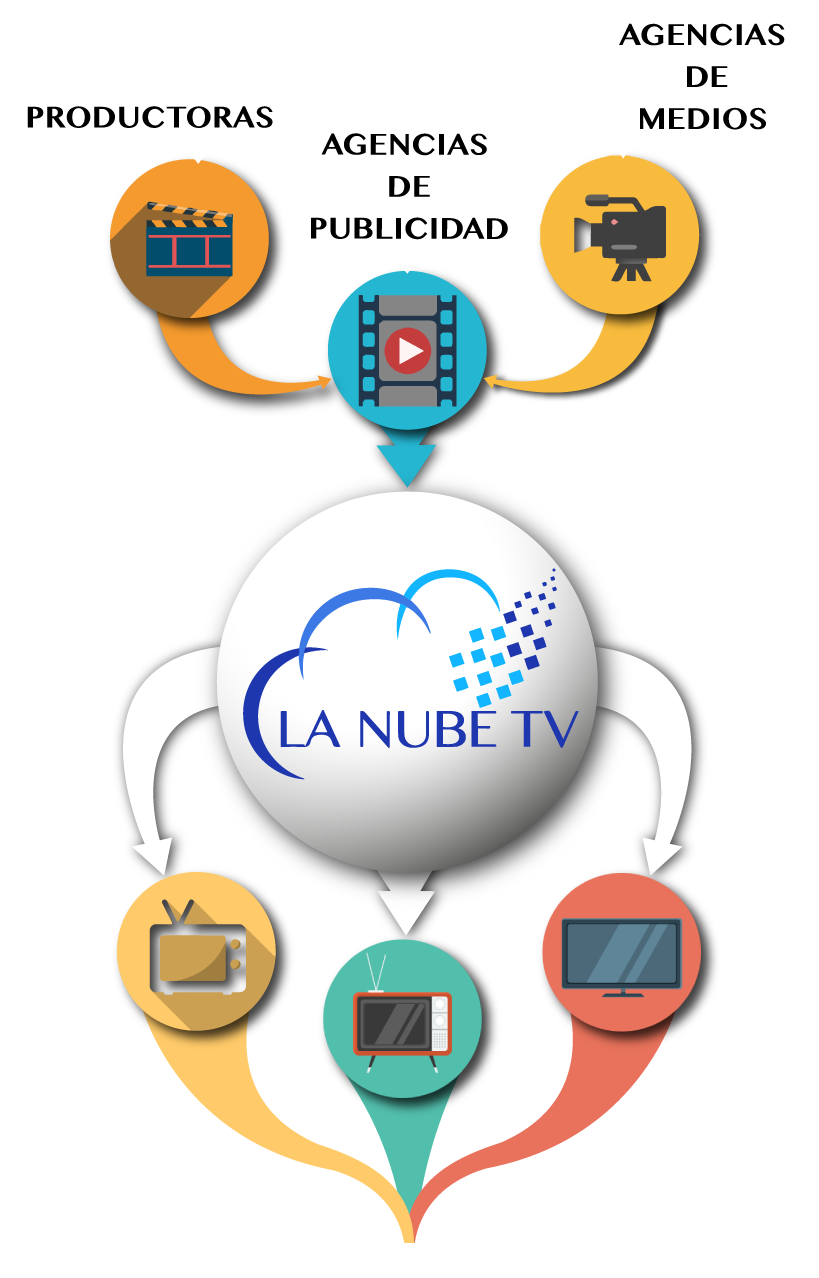
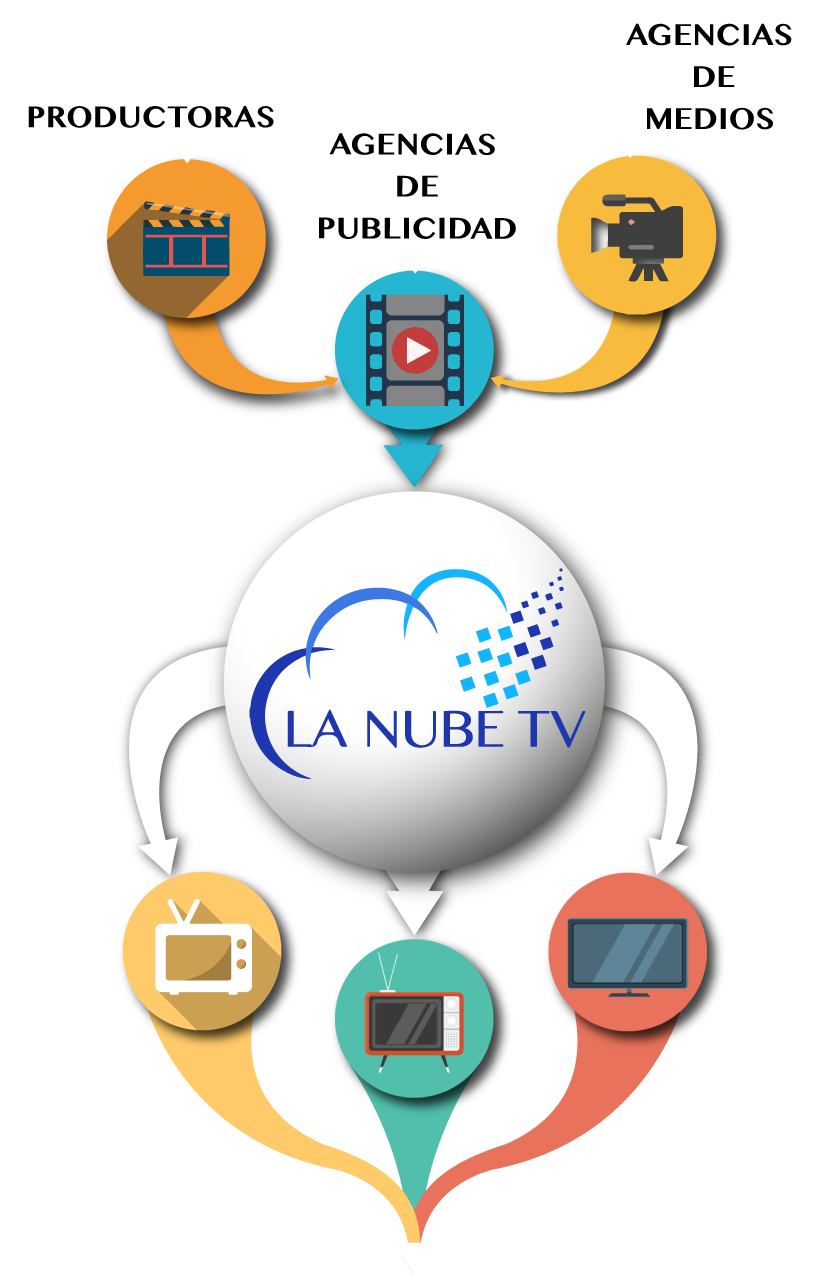
Cambios Nosotros: Imagenes Centradas. Canales: Ajustando tamaño y responsive. Falta cambiar el color

diff --git a/src/paginas/inicio/canales.vue b/src/paginas/inicio/canales.vue
@@ -1,43 +1,48 @@
+<style scoped>
+
+.Canales {
+    height: 100%;
+    background-color: rgb(48, 48, 48);
+}
+
+</style>
+
 <template>
+
 <section class="Canales">
-  <v-layout column>
-    <v-flex xs12>
-      <v-card-text class="display-1 font-weight-bold pa-4 white--text">
-        {{ items.titulo }}
-      </v-card-text>
-    </v-flex>
-    <v-flex xs12>
-      <carousel :items="items.canales" height="100%">
-        <v-container grid-list-md slot="contenido" slot-scope="canales" class="pa-5 pb-5 mx-auto">
-          <v-layout row wrap fill-height align-center justify-center class="pa-3 mx-auto">
-
-              <v-flex v-for="(canales,index) in canales.item.clientes" :key="canales.titulo+index" xs4 sm4 md3 lg3 >
-                <v-card height="100%" width="100%" hover style="min-width: 90px;  text-align: center; max-width: 125px; max-height: 125px; border-radius: 50%; " aspect-ratio="1" class="ma-auto pa-auto" color="transparent">
-                  <v-img contain :src="canales.src" alt="canales" height="inherit" aspect-ratio="1" class="pa-0 mx-auto">
-                  </v-img>
-                </v-card>
-              </v-flex>
-            </v-layout>
-        </v-container>
-      </carousel>
-    </v-flex>
-  </v-layout>
-  </v-container>
-
+    <v-layout row wrap justify-space-around fill-height>
+        <v-flex xs12 >
+            <v-card-text flat class="display-1 font-weight-bold  pt-5 white--text">
+                {{ items.titulo }}
+            </v-card-text>
+        </v-flex>
+        <v-flex xs12>
+            <carousel :items="items.canales" height="100%" style="box-shadow: 0px 0px;">
+                <v-container grid-list-xl slot="contenido" slot-scope="canales" style="max-width: 1200px;">
+                    <v-layout row wrap fill-height align-center justify-center class="pa-5 mx-auto">
+                        <v-flex v-for="(canales,index) in canales.item.clientes" :key="canales.titulo+index" xs4 sm4 md3 lg3>
+                            <v-card flat height="100%" width="100%" hover style="min-width: 80px;  text-align: center; max-width: 125px; max-height: 125px; border-radius: 50%; " aspect-ratio="1" class="ma-auto pa-auto" color="transparent">
+                                <v-img contain :src="canales.src" alt="canales" height="inherit" aspect-ratio="1" class="pa-0 mx-auto">
+                                </v-img>
+                            </v-card>
+                        </v-flex>
+                    </v-layout>
+                </v-container>
+            </carousel>
+        </v-flex>
+    </v-layout>
 </section>
+
 </template>
+
 <script>
+
 import carousel from "./../../componentes/UI/carousel";
 export default {
-  props: ["items"],
-  components: {
-    carousel
-  }
+    props: ["items"],
+    components: {
+        carousel
+    }
 };
+
 </script>
-<style scoped>
-.Canales {
-  height: 100%;
-  background-color: rgb(48, 48, 48);
-}
-</style>

diff --git a/src/paginas/inicio/nosotros.vue b/src/paginas/inicio/nosotros.vue
@@ -18,7 +18,6 @@
           <v-flex xs12 md10>
             <v-card flat color="transparent">
               <v-flex xs12>
-                <v-container>
                   <v-layout align-center justify-center>
                     <v-card color="transparent" flat>
                       <v-card-text class="hidden-sm-and-down">
@@ -29,29 +28,28 @@
                       </v-card-text>
                     </v-card>
                   </v-layout>
-                </v-container>
               </v-flex>
             </v-card>
           </v-flex>
           <v-flex xs12 md2>
-            <v-layout justify-center>
-              <v-btn round dark class="mb-4 pa-4 " color="primary" to="/canalestv">CANALES TV</v-btn>
+            <v-layout justify-center fill-height>
+              <v-btn round dark class="pa-4 font-weight-black subheading" color="primary" to="/canalestv">CANALES TV</v-btn>
             </v-layout>
           </v-flex>
         </v-layout>
       </v-flex>
       <v-flex>
-        <v-layout row wrap justify-center>
-          <v-flex xs12 sm12 md10 class="pa-4">
-            <v-layout row justify-center>
-              <v-card-title class="headline white--text pa-0">
+        <v-layout row wrap justify-center align-center>
+          <v-flex xs12 sm12 md10 class="">
+            <v-layout row align-center>
+              <v-card-text class="headline white--text ma-0 pa-0 font-weight-black ">
                 Prestamos servicios digitales a través de nuestra plataforma web
-              </v-card-title>
+              </v-card-text>
             </v-layout>
           </v-flex>
           <v-flex xs12 sm12 md2 class="pa-4">
             <v-layout row justify-center>
-              <v-btn round large class="ma-0 " color="primary" target="_blank" href="https://app.lanubetv.net">PLATAFORMA</v-btn>
+              <v-btn round large class="ma-0  font-weight-black subheading" color="primary"  target="_blank" href="https://app.lanubetv.net"> PLATAFORMA</v-btn>
             </v-layout>
           </v-flex>
         </v-layout>

diff --git a/src/componentes/UI/carousel.vue b/src/componentes/UI/carousel.vue
@@ -1,5 +1,5 @@
 <template>
-  <v-carousel :height="height">
+  <v-carousel :height="height" >
     <v-carousel-item v-for="(item, i) in items" :key="i" :src="item.src">
       <slot name="contenido" :item="item"> </slot>
     </v-carousel-item>
